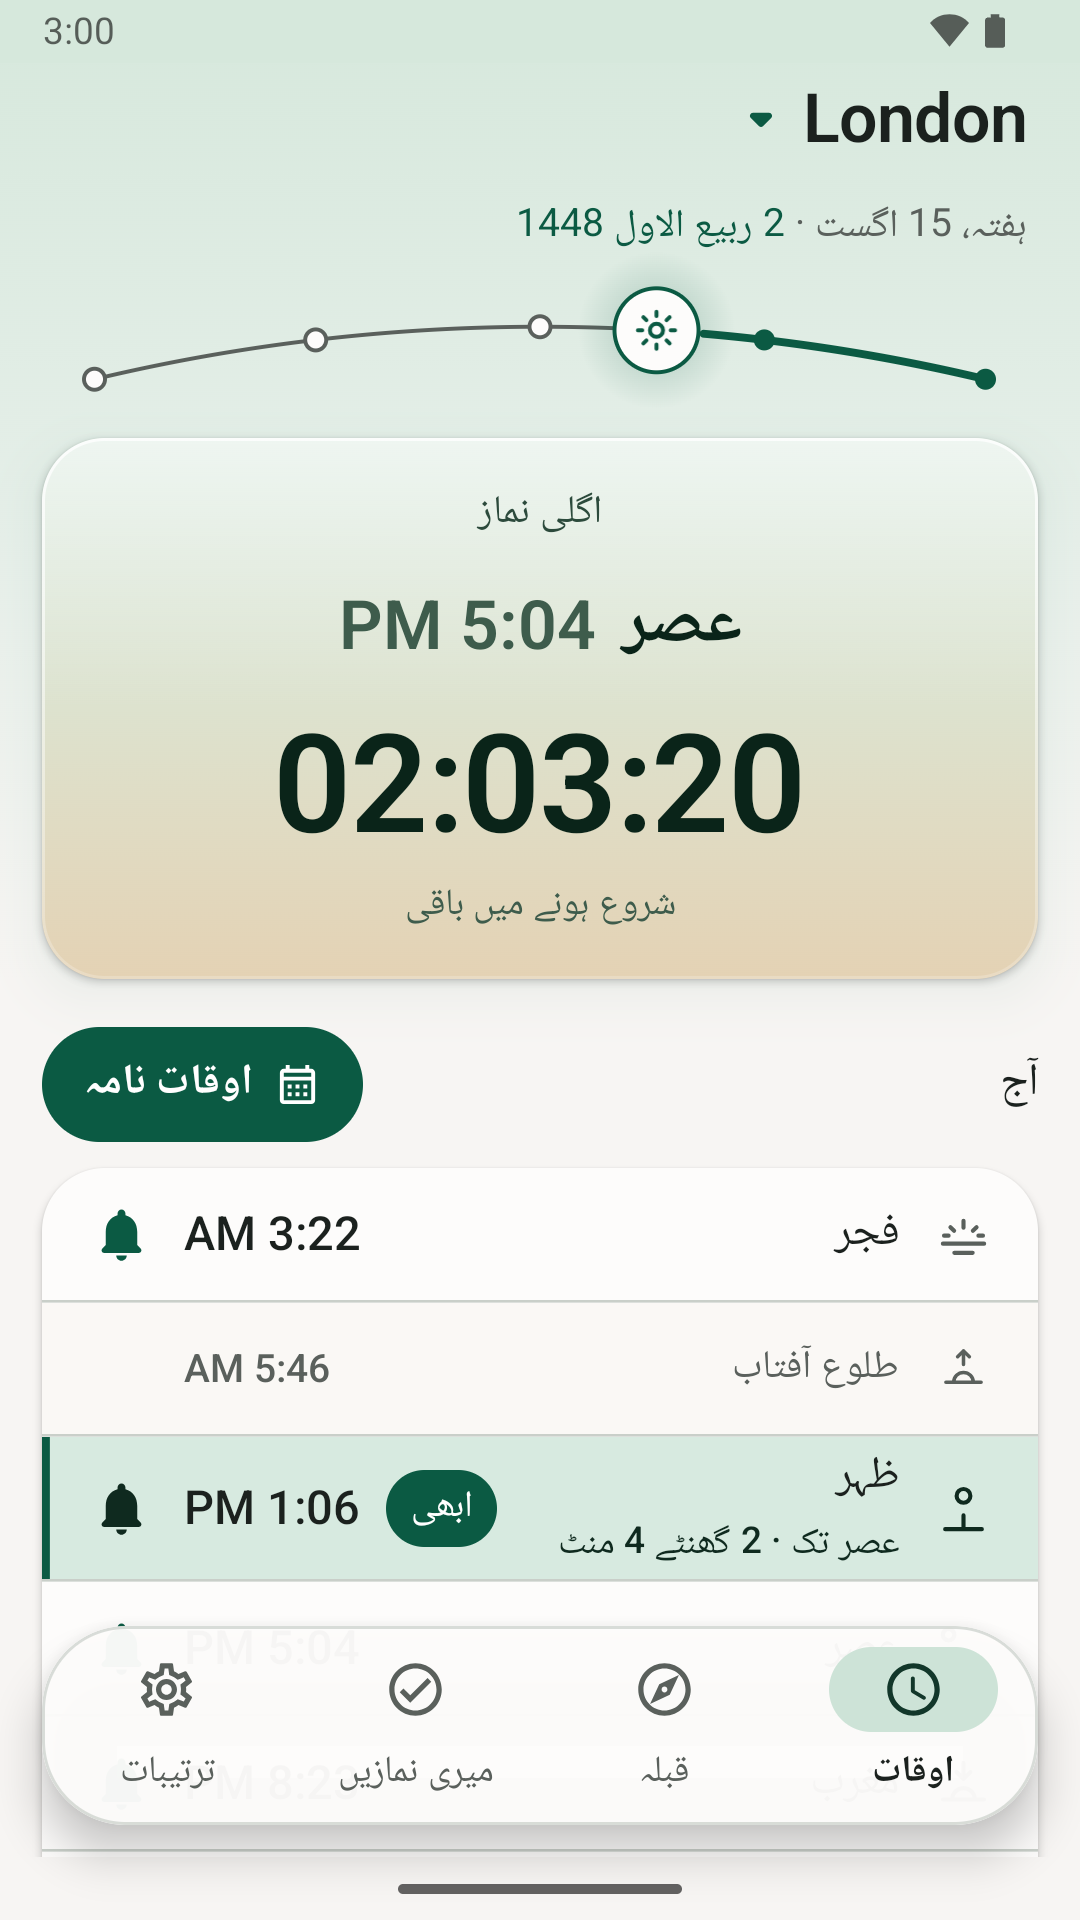
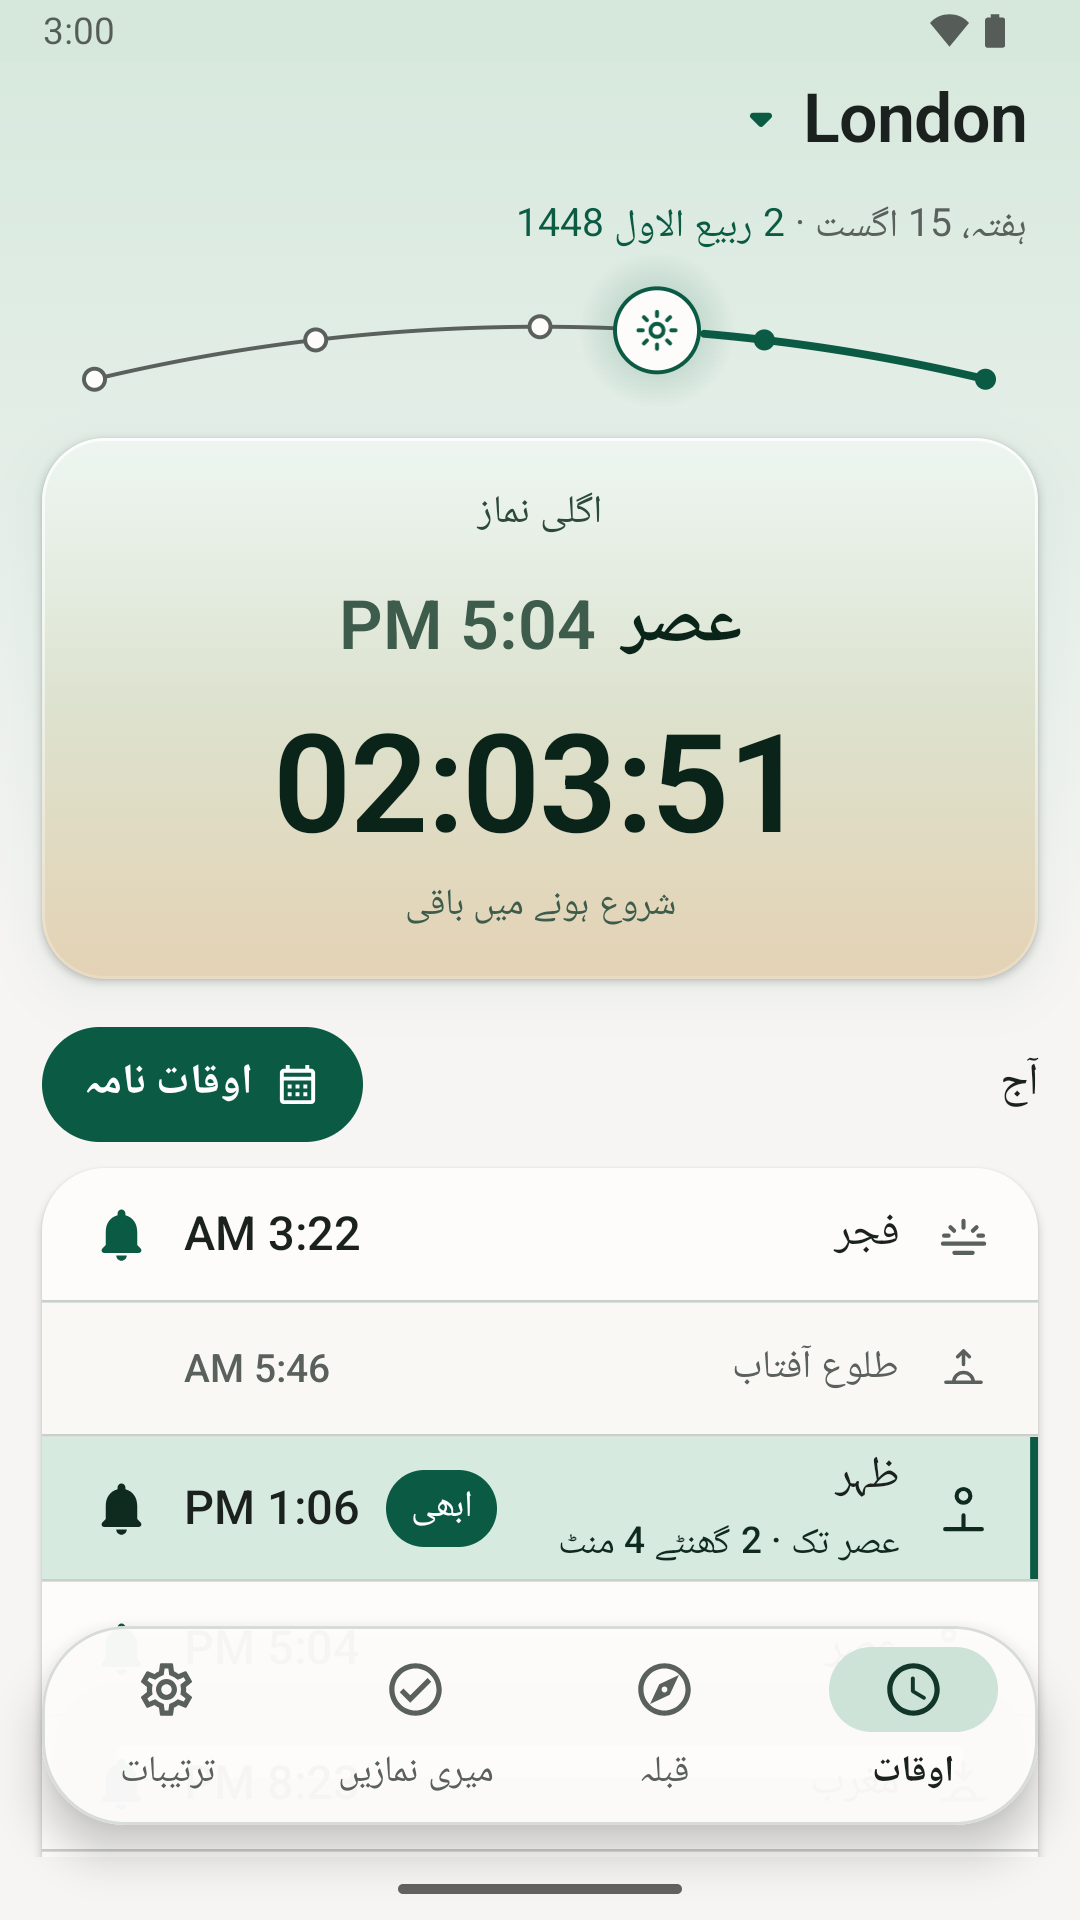
Recapture Arabic and Urdu Times pictures with the Now bar on the right
Keep the existing London framing and regenerate the upload copies from the raw emulator captures. Verified both at 1080 × 1920 and reran the device suite. Real phone and Play preview were outside this pass.

Changed region(s): [[0.6111, 0.375, 0.7639, 0.4375], [0.9472, 0.75, 0.9778, 0.8125], [0.0306, 0.75, 0.0611, 0.8125]]

diff --git a/docs/store/CODEX-REPORT-recapture-1.7.0.md b/docs/store/CODEX-REPORT-recapture-1.7.0.md
@@ -1,0 +1,23 @@
+# SajdaTime 1.7.0 picture and device test report
+
+4 November 2026 · `claude/1-7-0` · tested build from `077bdc0`
+
+## Store pictures
+
+I opened the new [Arabic Times picture](upload/phone/ar/01-times-light.png) and [Urdu Times picture](upload/phone/ur/01-times-light.png). Both show London in light mode. Dhuhr is the highlighted Now row, and its thin green bar is on the right edge in both pictures.
+
+I used fresh onboarding with Automatic calculation, then set London using the project's capture helper. I took the pictures at 1080 × 1920 on the store emulator, with the app set to each language in turn. I restored the app to its original language setting and switched automatic date and time back on. The store asset script copied both raw captures into the upload folders byte for byte. These were the only two pictures recaptured.
+
+## Device suite
+
+I installed the debug app and test app on `emulator-5554`, granted widget binding and ran the step 6b device suite once.
+
+| Runner total | Passed | Failures | Errors | Skipped |
+|---:|---:|---:|---:|---:|
+| 49 | 38 | 0 | 0 | 11 |
+
+The runner printed `OK (49 tests)`. Its individual results include 11 skips. Ten were optional widget render checks, and one was the alarm channel language check, which applies to older Android versions. The corrected Today widget check passed. No app or test code changed.
+
+## Outside this run
+
+The separate Ramadan Suhoor reminder test and the two capture helper classes were excluded from the suite as specified. I did not test on a real phone or check the Play listing preview. Nothing was uploaded to Google Play.
